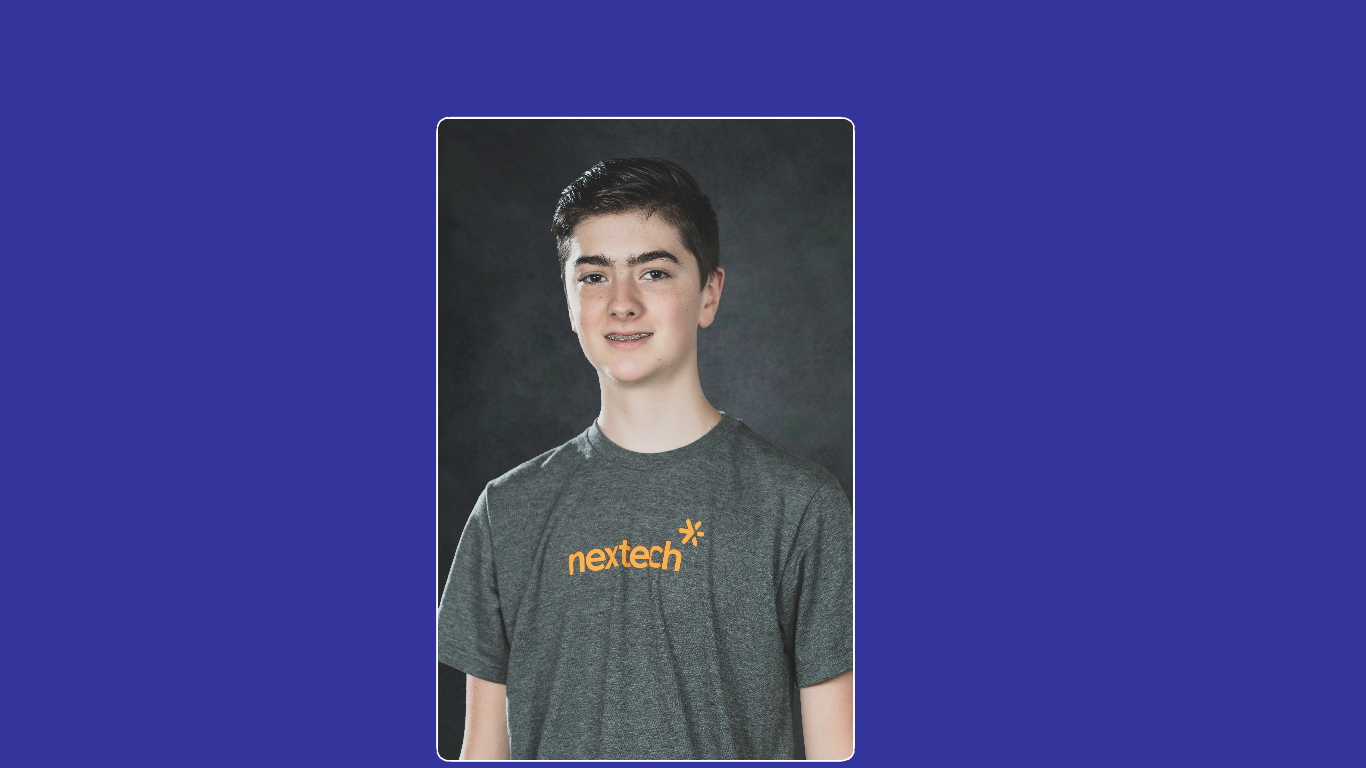
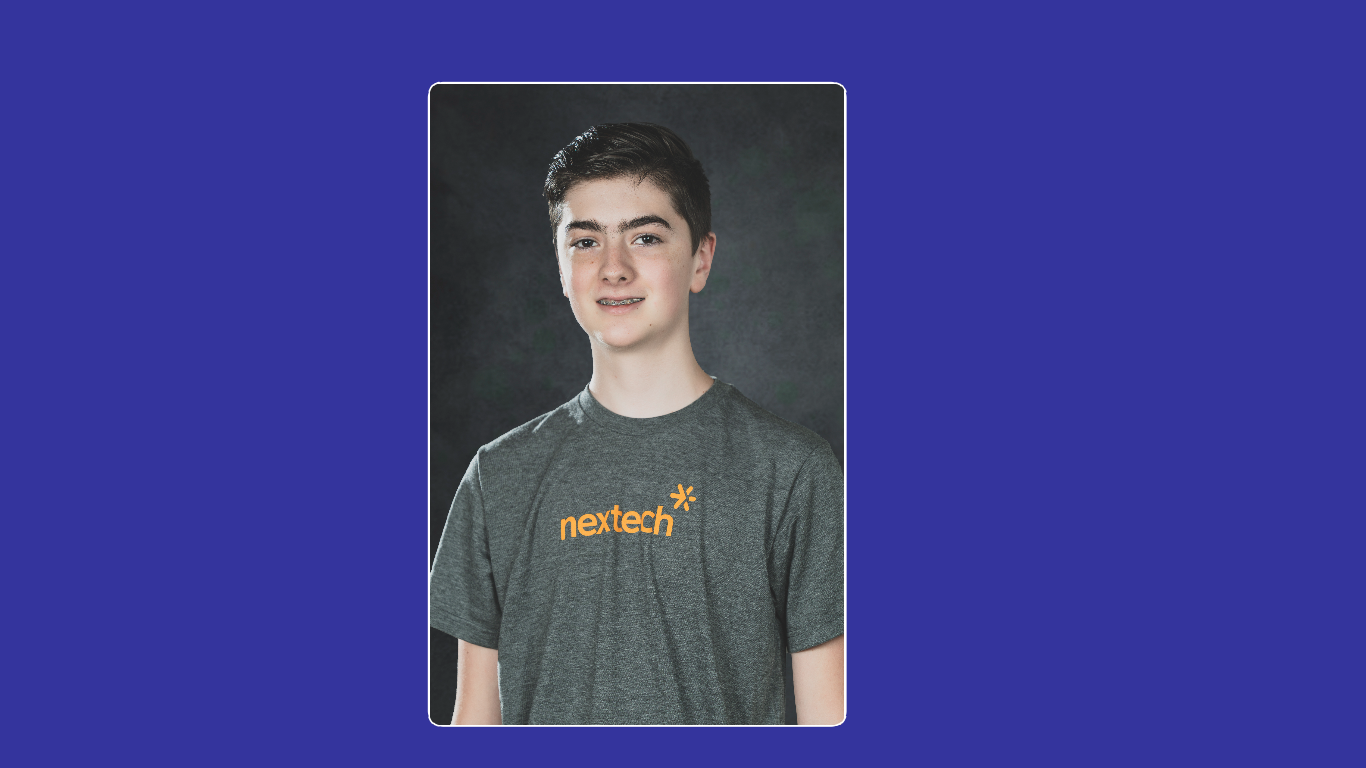
fixed backgroun

Changed region(s): [[0.3075, 0.0938, 0.6457, 1.0]]

diff --git a/contactMe.js b/contactMe.js
@@ -1,6 +1,7 @@
 function clipboard() {
     navigator.clipboard.writeText("adianhooper@gmail.com");
     document.querySelector("#gmailLabel").innerHTML = "copied to clipboard";
+    document.querySelector("#gmailLabel").style.fontSize = "11pt";
     document.querySelector("#GmailText").style.marginTop = "0%";
     document.querySelector("#Github").style.marginTop = "-50%";
 

diff --git a/style.css b/style.css
@@ -16,7 +16,9 @@ header {
     height: 70px;
 }
 body {
-    background-image: "./images/background.png";
+    background: url(images/background.png);
+    background-repeat: no-repeat;
+    background-color: hsl(240, 50%, 41%);
     overflow-x: hidden;
 }
 .workSamples {
